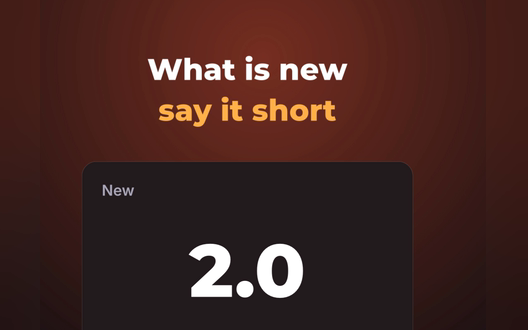
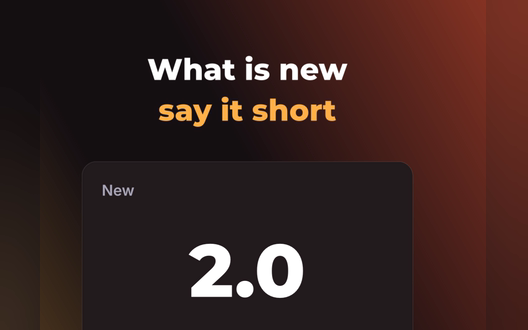
Templates use the project's own background and adapt to the frame's shape
A template's background is no longer a picture baked into the recording: the
recording (a plain still that gives the piece its length) is not drawn
(sfHideRecording), and the template's colours become the project's gradient
background, which fills a frame of any shape and is changed in the Background
panel like any other.

Choosing another shape in the app keeps a template project's titles and cards
arranged as designed, centred in the new frame, and going back restores them
exactly (refit_layers). The vertical platforms' safe area is dropped when the
video is no longer vertical. The template pictures are redrawn.

diff --git a/crates/sf-services/src/templates.rs b/crates/sf-services/src/templates.rs
@@ -1,8 +1,9 @@
-//! Templates: videos made without a recording. A template is a look (a drawn background, a
+//! Templates: videos made without a recording. A template is a look (a gradient background, a
 //! palette, where the headline and the card sit) and a structure (a hook, beats, an end card)
 //! that a person or an agent fills with words, narration and cards. The result is an ordinary
-//! project: the background is its "recording", a still video as long as the piece, so
-//! narration, captions, titles and overlays work as they do over a screen recording.
+//! project: a plain still video as long as the piece is its "recording", which is not shown, so
+//! narration, captions, titles and overlays work as they do over a screen recording, and the
+//! picture behind them is the project's own background.
 //!
 //! A card is not one picture: it is laid out as separate elements ([`Element`]), each shape an
 //! overlay of its own and each piece of text a title, so every one can be selected, moved,
@@ -21,15 +22,6 @@ pub const TEXT: &str = "#ffffff";
 pub const MUTED: &str = "#a9a6b8";
 pub const INK: &str = "#16131c";
 
-/// What is drawn over the background's glows.
-#[derive(Debug, Clone, Copy, PartialEq)]
-pub enum Pattern {
-    None,
-    Grid,
-    Dots,
-    Lines,
-}
-
 /// The small label over each beat's headline.
 #[derive(Debug, Clone, Copy, PartialEq)]
 pub enum Labels {
@@ -44,10 +36,10 @@ pub struct Template {
     pub key: &'static str,
     pub label: &'static str,
     pub about: &'static str,
-    /// The background's fill and its two soft glows: colour, centre (0–1), radius (0–1 of the height).
+    /// The background: a dark fill between two glows (colour, centre 0–1, reach 0–1), made into
+    /// the project's own gradient background.
     pub base: &'static str,
     pub glows: [(&'static str, f64, f64, f64); 2],
-    pub pattern: Pattern,
     /// The second line of a headline, the captions' spoken word and the button.
     pub accent: &'static str,
     /// The card panel's fill.
@@ -64,20 +56,20 @@ pub struct Template {
 /// the safe area of TikTok, Reels and Shorts and in the proportions of the card canvas.
 pub const CARD: [f64; 4] = [0.075, 0.3, 0.78, 0.3306];
 
-const fn template(key: &'static str, label: &'static str, about: &'static str, base: &'static str, glows: [(&'static str, f64, f64, f64); 2], pattern: Pattern, accent: &'static str, panel: &'static str, labels: Labels, card_in: &'static str) -> Template {
-    Template { key, label, about, base, glows, pattern, accent, panel, headline_y: 0.22, headline_size: 0.046, labels, card_in }
+const fn template(key: &'static str, label: &'static str, about: &'static str, base: &'static str, glows: [(&'static str, f64, f64, f64); 2], accent: &'static str, panel: &'static str, labels: Labels, card_in: &'static str) -> Template {
+    Template { key, label, about, base, glows, accent, panel, headline_y: 0.22, headline_size: 0.046, labels, card_in }
 }
 
 pub const TEMPLATES: [Template; 9] = [
-    template("feature-short", "Feature short", "One product feature in about 20 seconds: a two-line hook, three to five beats (a headline over a card), and an end card with the name, a tagline, a button and the web address. Dark plum with warm glows.", "#14131f", [("#ff7a45", 0.22, 0.30, 0.42), ("#d0367f", 0.88, 0.74, 0.46)], Pattern::Grid, "#ff8a4c", "#1d1c2b", Labels::None, "zoom"),
-    template("how-to-steps", "How-to in steps", "A numbered how-to: a hook that names the result, then one beat per step (STEP 1, STEP 2 … over a headline and a card that shows the step), and an end card. Deep blue with cool glows.", "#0d1524", [("#2f6df0", 0.15, 0.22, 0.44), ("#22c7dd", 0.9, 0.8, 0.4)], Pattern::None, "#5cc8ff", "#152238", Labels::Numbered("STEP"), "rise"),
-    template("announcement", "Announcement", "A launch or one piece of news: a big hook, two or three short statements with a card each, and an end card with the web address. Near-black with an amber glow.", "#150f12", [("#ff5a36", 0.5, 0.18, 0.5), ("#ffb347", 0.5, 0.95, 0.42)], Pattern::None, "#ffb14a", "#221a1c", Labels::None, "fade"),
-    template("top-three", "Top three", "A countdown list: a hook that names the list, then number three, two and one, each a headline over a card, and an end card. Charcoal with gold.", "#101418", [("#f59e0b", 0.2, 0.25, 0.4), ("#ef4444", 0.86, 0.8, 0.42)], Pattern::Dots, "#fbbf24", "#1b2027", Labels::Fixed(&["NUMBER 3", "NUMBER 2", "NUMBER 1"]), "zoom"),
-    template("quick-tip", "Quick tip", "One tip in fifteen seconds: the problem, the fix, and what it gives you. Dark green with fresh glows.", "#0c1a17", [("#10b981", 0.2, 0.2, 0.45), ("#84cc16", 0.86, 0.85, 0.4)], Pattern::Lines, "#34d399", "#132621", Labels::Fixed(&["THE PROBLEM", "THE FIX", "THE RESULT"]), "rise"),
-    template("did-you-know", "Did you know", "A surprising fact: the fact as a big figure, why it is so, and what to do with it. Deep violet with pink.", "#170f24", [("#8b5cf6", 0.25, 0.25, 0.45), ("#ec4899", 0.86, 0.8, 0.42)], Pattern::Dots, "#c4b5fd", "#22183a", Labels::None, "zoom"),
-    template("before-after", "Before and after", "A comparison: how it was, how it is now, and the difference in one figure. Graphite, from red to green.", "#121316", [("#ef4444", 0.12, 0.3, 0.4), ("#22c55e", 0.9, 0.7, 0.42)], Pattern::None, "#4ade80", "#1c1e24", Labels::Fixed(&["BEFORE", "AFTER", "THE DIFFERENCE"]), "fade"),
-    template("testimonial", "Testimonial", "What a customer said: their words as a quote, the result they got as a figure, and an end card. Warm brown with orange.", "#17120e", [("#f97316", 0.2, 0.2, 0.4), ("#eab308", 0.86, 0.85, 0.38)], Pattern::None, "#fdba74", "#241c16", Labels::None, "fade"),
-    template("sale", "Sale", "An offer: the price and what it was, what you get, and when it ends, closing on a button. Dark red with coral.", "#1a0b10", [("#f43f5e", 0.5, 0.2, 0.5), ("#fb923c", 0.5, 0.92, 0.4)], Pattern::Lines, "#ff6b81", "#2a1219", Labels::None, "zoom"),
+    template("feature-short", "Feature short", "One product feature in about 20 seconds: a two-line hook, three to five beats (a headline over a card), and an end card with the name, a tagline, a button and the web address. Dark plum with warm glows.", "#14131f", [("#ff7a45", 0.22, 0.30, 0.42), ("#d0367f", 0.88, 0.74, 0.46)], "#ff8a4c", "#1d1c2b", Labels::None, "zoom"),
+    template("how-to-steps", "How-to in steps", "A numbered how-to: a hook that names the result, then one beat per step (STEP 1, STEP 2 … over a headline and a card that shows the step), and an end card. Deep blue with cool glows.", "#0d1524", [("#2f6df0", 0.15, 0.22, 0.44), ("#22c7dd", 0.9, 0.8, 0.4)], "#5cc8ff", "#152238", Labels::Numbered("STEP"), "rise"),
+    template("announcement", "Announcement", "A launch or one piece of news: a big hook, two or three short statements with a card each, and an end card with the web address. Near-black with an amber glow.", "#150f12", [("#ff5a36", 0.5, 0.18, 0.5), ("#ffb347", 0.5, 0.95, 0.42)], "#ffb14a", "#221a1c", Labels::None, "fade"),
+    template("top-three", "Top three", "A countdown list: a hook that names the list, then number three, two and one, each a headline over a card, and an end card. Charcoal with gold.", "#101418", [("#f59e0b", 0.2, 0.25, 0.4), ("#ef4444", 0.86, 0.8, 0.42)], "#fbbf24", "#1b2027", Labels::Fixed(&["NUMBER 3", "NUMBER 2", "NUMBER 1"]), "zoom"),
+    template("quick-tip", "Quick tip", "One tip in fifteen seconds: the problem, the fix, and what it gives you. Dark green with fresh glows.", "#0c1a17", [("#10b981", 0.2, 0.2, 0.45), ("#84cc16", 0.86, 0.85, 0.4)], "#34d399", "#132621", Labels::Fixed(&["THE PROBLEM", "THE FIX", "THE RESULT"]), "rise"),
+    template("did-you-know", "Did you know", "A surprising fact: the fact as a big figure, why it is so, and what to do with it. Deep violet with pink.", "#170f24", [("#8b5cf6", 0.25, 0.25, 0.45), ("#ec4899", 0.86, 0.8, 0.42)], "#c4b5fd", "#22183a", Labels::None, "zoom"),
+    template("before-after", "Before and after", "A comparison: how it was, how it is now, and the difference in one figure. Graphite, from red to green.", "#121316", [("#ef4444", 0.12, 0.3, 0.4), ("#22c55e", 0.9, 0.7, 0.42)], "#4ade80", "#1c1e24", Labels::Fixed(&["BEFORE", "AFTER", "THE DIFFERENCE"]), "fade"),
+    template("testimonial", "Testimonial", "What a customer said: their words as a quote, the result they got as a figure, and an end card. Warm brown with orange.", "#17120e", [("#f97316", 0.2, 0.2, 0.4), ("#eab308", 0.86, 0.85, 0.38)], "#fdba74", "#241c16", Labels::None, "fade"),
+    template("sale", "Sale", "An offer: the price and what it was, what you get, and when it ends, closing on a button. Dark red with coral.", "#1a0b10", [("#f43f5e", 0.5, 0.2, 0.5), ("#fb923c", 0.5, 0.92, 0.4)], "#ff6b81", "#2a1219", Labels::None, "zoom"),
 ];
 
 pub fn find(key: &str) -> Option<&'static Template> {
@@ -104,55 +96,30 @@ fn words(text: &str, x: f64, y: f64, size: f64, align: &'static str, color: &str
 }
 
 impl Template {
-    /// The background, drawn for the whole frame.
-    pub fn background_svg(&self) -> String {
-        let mut s = format!(r#"<svg xmlns="http://www.w3.org/2000/svg" viewBox="0 0 {WIDTH} {HEIGHT}"><defs>"#);
-        for (i, (color, _, _, _)) in self.glows.iter().enumerate() {
-            s += &format!(r#"<radialGradient id="g{i}"><stop offset="0" stop-color="{color}" stop-opacity="0.42"/><stop offset="1" stop-color="{color}" stop-opacity="0"/></radialGradient>"#);
-        }
-        s += &format!(r#"</defs><rect width="{WIDTH}" height="{HEIGHT}" fill="{}"/>"#, self.base);
-        for (i, (_, x, y, r)) in self.glows.iter().enumerate() {
-            s += &format!(r#"<circle cx="{}" cy="{}" r="{}" fill="url(#g{i})"/>"#, x * WIDTH, y * HEIGHT, r * HEIGHT);
-        }
-        let mut d = String::new();
-        match self.pattern {
-            Pattern::None => {}
-            Pattern::Grid => {
-                let mut x = 90.0;
-                while x < WIDTH {
-                    d += &format!("M{x} 0V{HEIGHT}");
-                    x += 90.0;
-                }
-                let mut y = 90.0;
-                while y < HEIGHT {
-                    d += &format!("M0 {y}H{WIDTH}");
-                    y += 90.0;
-                }
-            }
-            Pattern::Lines => {
-                // diagonals, bottom-left to top-right
-                let mut c = -HEIGHT;
-                while c < WIDTH {
-                    d += &format!("M{c} {HEIGHT}L{} 0", c + HEIGHT);
-                    c += 120.0;
-                }
-            }
-            Pattern::Dots => {
-                let mut y = 60.0;
-                while y < HEIGHT {
-                    let mut x = 60.0;
-                    while x < WIDTH {
-                        s += &format!(r##"<circle cx="{x}" cy="{y}" r="3" fill="#ffffff" fill-opacity="0.07"/>"##);
-                        x += 120.0;
-                    }
-                    y += 120.0;
-                }
-            }
-        }
-        if !d.is_empty() {
-            s += &format!(r##"<path d="{d}" stroke="#ffffff" stroke-opacity="0.045" stroke-width="2" fill="none"/>"##);
-        }
-        s + "</svg>"
+    /// The template's background as a project gradient (`/config/styles/background/gradient`):
+    /// the first glow's colour in the corner it sits in, the dark fill through the middle, the
+    /// second glow's colour in its corner. Being the project's own background, it fills a frame
+    /// of any shape and is changed in the Background panel like any other.
+    pub fn gradient(&self) -> Value {
+        let ((c0, x0, y0, _), (c1, x1, y1, _)) = (self.glows[0], self.glows[1]);
+        let (sx, sy) = (x0.round(), y0.round());
+        // the far corner from the first glow when the second sits on the same side
+        let (ex, ey) = (if (x1.round() - sx).abs() < 0.5 { 1.0 - sx } else { x1.round() }, if (y1.round() - sy).abs() < 0.5 { 1.0 - sy } else { y1.round() });
+        json!({
+            "start": { "x": sx, "y": sy },
+            "end": { "x": ex, "y": ey },
+            "stops": [
+                { "color": mix(self.base, c0, 0.55), "at": 0.0 },
+                { "color": self.base, "at": 0.42 },
+                { "color": self.base, "at": 0.6 },
+                { "color": mix(self.base, c1, 0.5), "at": 1.0 },
+            ],
+        })
+    }
+
+    /// The still picture the project's (hidden) recording is made of: the plain fill.
+    pub fn backdrop_svg(&self) -> String {
+        format!(r#"<svg xmlns="http://www.w3.org/2000/svg" viewBox="0 0 {WIDTH} {HEIGHT}"><rect width="{WIDTH}" height="{HEIGHT}" fill="{}"/></svg>"#, self.base)
     }
 
     /// The label over beat `index`'s headline (0-based), when the template has one.
@@ -299,6 +266,17 @@ For an illustration none of these fits, give SVG markup instead: <svg xmlns=\"ht
     )
 }
 
+/// `a` with `amount` (0–1) of `b` mixed in, both `#rrggbb`.
+pub fn mix(a: &str, b: &str, amount: f64) -> String {
+    let rgb = |h: &str| {
+        let v = u32::from_str_radix(h.trim_start_matches('#'), 16).unwrap_or(0);
+        [(v >> 16) & 255, (v >> 8) & 255, v & 255]
+    };
+    let (a, b) = (rgb(a), rgb(b));
+    let c: Vec<u32> = (0..3).map(|i| (a[i] as f64 + (b[i] as f64 - a[i] as f64) * amount.clamp(0.0, 1.0)).round() as u32).collect();
+    format!("#{:02x}{:02x}{:02x}", c[0], c[1], c[2])
+}
+
 pub fn escape(s: &str) -> String {
     s.replace('&', "&amp;").replace('<', "&lt;").replace('>', "&gt;").replace('"', "&quot;")
 }
@@ -325,9 +303,13 @@ mod tests {
         assert!(x * WIDTH >= 60.0 && (x + cw) * WIDTH <= 940.0 && y * HEIGHT >= 220.0 && (y + ch) * HEIGHT <= 1440.0);
         assert!(((cw * WIDTH / (ch * HEIGHT)) / (CARD_W / CARD_H) - 1.0).abs() < 0.01);
         for t in &TEMPLATES {
-            let (png, w, h) = crate::svg::render(&t.background_svg(), 1920).unwrap_or_else(|e| panic!("{}: {e}", t.key));
+            let (_, w, h) = crate::svg::render(&t.backdrop_svg(), 1920).unwrap_or_else(|e| panic!("{}: {e}", t.key));
             assert_eq!((w, h), (1080, 1920), "{}", t.key);
-            assert!(png.len() > 1000);
+            // the background is a gradient the project can hold: two corners apart, four stops
+            let g = t.gradient();
+            assert!(g["start"] != g["end"], "{}", t.key);
+            assert_eq!(g["stops"].as_array().map(Vec::len), Some(4));
+            assert!(g["stops"][0]["color"].as_str().is_some_and(|c| c.len() == 7 && c != t.base));
             assert!(find(&t.key.to_uppercase()).is_some());
             // the stand-in project: every card is shapes that draw and words inside the canvas
             let sample = t.sample();
@@ -354,6 +336,7 @@ mod tests {
         assert_eq!(TEMPLATES[3].beat_label(5), None);
         assert!(TEMPLATES[0].card_elements(&json!({ "type": "pie" })).is_err());
         assert!(TEMPLATES[0].card_elements(&json!({ "type": "list" })).is_err());
+        assert_eq!(mix("#000000", "#ffffff", 0.5), "#808080");
         assert_eq!(file_stem("  My: demo/video?  "), "My demo video");
         assert_eq!(escape("a<b & \"c\""), "a&lt;b &amp; &quot;c&quot;");
     }

diff --git a/crates/sf-engine/src/tracks.rs b/crates/sf-engine/src/tracks.rs
@@ -169,6 +169,35 @@ pub fn shift_output_items(scene: &mut Scene, at: f64, delta: f64) {
     scene.set_tracks(tracks);
 }
 
+/// Keep titles and overlays arranged as they were designed when the video's shape changes
+/// from `old` to `new` (width / height). The arrangement was made for a frame of shape
+/// `design`; it is shown whole and centred in any other frame, as large as fits (a vertical
+/// design in a wide frame keeps its size and sits in the middle), so going back to the design's
+/// shape puts everything exactly where it was.
+pub fn refit_layers(scene: &mut Scene, design: f64, old: f64, new: f64) {
+    if !(design > 0.0 && old > 0.0 && new > 0.0) || (old - new).abs() < 1e-9 {
+        return;
+    }
+    // how large the design is drawn in a frame of shape `a`, as a fraction of its height
+    let scale = |a: f64| (a / design).min(1.0);
+    let (s0, s1) = (scale(old), scale(new));
+    // x and y of a point: back to the design's frame, then into the new one
+    let x = |v: f64| 0.5 + (v - 0.5) * (old / (s0 * design)) * (s1 * design / new);
+    let y = |v: f64| 0.5 + (v - 0.5) / s0 * s1;
+    let (kw, kh) = ((old / (s0 * design)) * (s1 * design / new), s1 / s0);
+    let mut tracks = scene.tracks();
+    for c in tracks.iter_mut().flat_map(|t| t.clips.iter_mut()) {
+        if let Some(t) = c.text.as_mut() {
+            t.position01 = sf_project::schema::common::Point::new(x(t.position01.x), y(t.position01.y));
+            t.size_ratio *= kh;
+        }
+        if let Some(r) = c.rect01.as_mut() {
+            *r = sf_project::schema::common::Rect { x: x(r.x), y: y(r.y), width: r.width * kw, height: r.height * kh };
+        }
+    }
+    scene.set_tracks(tracks);
+}
+
 /// Insert a title card `duration_ms` long before slice `index` (at the end when past it).
 /// Returns its output start.
 pub fn insert_card(scene: &mut Scene, index: usize, duration_ms: f64) -> f64 {
@@ -242,6 +271,47 @@ pub fn add_title_card(scene: &mut Scene, index: usize, text: &str, duration_ms: 
 #[cfg(test)]
 mod tests {
     use super::*;
+
+    #[test]
+    fn layers_keep_their_arrangement_across_frame_shapes_and_come_back() {
+        let mut scene = Scene::recording("s", 0);
+        let mut tracks = vec![];
+        let mut title = Clip::title(0.0, 2000.0, "Headline");
+        title.text.as_mut().unwrap().position01 = sf_project::schema::common::Point::new(0.465, 0.22);
+        title.text.as_mut().unwrap().size_ratio = 0.046;
+        let mut card = Clip::title(0.0, 2000.0, "x");
+        card.text = None;
+        card.rect01 = Some(sf_project::schema::common::Rect { x: 0.075, y: 0.3, width: 0.78, height: 0.33 });
+        tr::add_clip(&mut tracks, title);
+        tr::add_clip(&mut tracks, card);
+        scene.set_tracks(tracks);
+        let read = |s: &Scene| {
+            let t = s.tracks();
+            let all: Vec<&Clip> = t.iter().flat_map(|t| &t.clips).collect();
+            let text = all.iter().find_map(|c| c.text.as_ref()).unwrap().clone();
+            (text.position01.x, text.position01.y, text.size_ratio, all.iter().find_map(|c| c.rect01).unwrap())
+        };
+        let before = read(&scene);
+        let (v, w) = (9.0 / 16.0, 16.0 / 9.0);
+        // vertical to wide: the same height, a narrower share of the width, still centred
+        refit_layers(&mut scene, v, v, w);
+        let wide = read(&scene);
+        assert!((wide.1 - before.1).abs() < 1e-9 && (wide.2 - before.2).abs() < 1e-9);
+        assert!((wide.3.height - before.3.height).abs() < 1e-9 && (wide.3.width - before.3.width * v / w).abs() < 1e-9);
+        // the card keeps its shape in pixels: width / height times the frame's shape
+        assert!(((wide.3.width / wide.3.height * w) - (before.3.width / before.3.height * v)).abs() < 1e-9);
+        assert!(wide.3.x > 0.3 && wide.3.x + wide.3.width < 0.7);
+        // wide to square, then back to vertical: where it started
+        refit_layers(&mut scene, v, w, 1.0);
+        refit_layers(&mut scene, v, 1.0, v);
+        let back = read(&scene);
+        assert!((back.0 - before.0).abs() < 1e-9 && (back.1 - before.1).abs() < 1e-9 && (back.2 - before.2).abs() < 1e-9);
+        assert!((back.3.x - before.3.x).abs() < 1e-9 && (back.3.width - before.3.width).abs() < 1e-9 && (back.3.y - before.3.y).abs() < 1e-9);
+        // a frame narrower than the design: the design is made smaller to fit its width
+        refit_layers(&mut scene, v, v, 0.4);
+        let narrow = read(&scene);
+        assert!(narrow.2 < before.2 && (narrow.3.width - before.3.width).abs() < 1e-9);
+    }
     use sf_project::tracks::{ClipAnim, Link};
 
     fn tl(slices: &[Slice]) -> Timeline {

diff --git a/apps/sf-cli/src/mcp.rs b/apps/sf-cli/src/mcp.rs
@@ -380,7 +380,7 @@ impl Server {
         let tmp = std::env::temp_dir().join(format!("sf-template-{}-{}", std::process::id(), chrono::Local::now().format("%H%M%S%3f")));
         std::fs::create_dir_all(&tmp)?;
         let made = (|| -> Result<PathBuf> {
-            let (png, _, _) = sf_services::svg::render(&t.background_svg(), HEIGHT as u32).map_err(|e| anyhow!(e))?;
+            let (png, _, _) = sf_services::svg::render(&t.backdrop_svg(), HEIGHT as u32).map_err(|e| anyhow!(e))?;
             let still = tmp.join("background.png");
             std::fs::write(&still, png)?;
             let video = tmp.join(format!("{name}.mp4"));
@@ -403,15 +403,19 @@ impl Server {
                 let o = ws.run(name, &a).map_err(|e| anyhow!("{name}: {e}"))?;
                 Ok(serde_json::from_str(&o.result).unwrap_or(Value::Null))
             };
-            // the background fills the frame: no padding, corners, shadow, cursor or phone frame
+            // the recording is not shown (it only gives the piece its length): the picture is the
+            // project's own background, the template's gradient, which fills a frame of any shape
             run("patch_project", json!({ "ops": [
                 { "op": "add", "path": "/name", "value": name },
+                { "op": "add", "path": "/config/output/sfHideRecording", "value": true },
+                { "op": "add", "path": "/config/output/sfTemplate", "value": t.key },
                 { "op": "add", "path": "/config/output/paddingRatio01", "value": 0 },
                 { "op": "add", "path": "/config/styles/screenBorderRadius", "value": 0 },
                 { "op": "add", "path": "/config/styles/shadow/intensity", "value": 0 },
                 { "op": "add", "path": "/config/cursor/hide", "value": true },
                 { "op": "add", "path": "/config/device/enableMockup", "value": false },
-                { "op": "add", "path": "/config/styles/background/type", "value": "color" },
+                { "op": "add", "path": "/config/styles/background/type", "value": "gradient" },
+                { "op": "add", "path": "/config/styles/background/gradient", "value": t.gradient() },
                 { "op": "add", "path": "/config/styles/background/color", "value": t.base },
                 { "op": "add", "path": "/config/captions/font", "value": "heavy" },
                 { "op": "add", "path": "/config/captions/sfStyle", "value": "highlight" },

diff --git a/apps/studio/src/editor.rs b/apps/studio/src/editor.rs
@@ -1887,7 +1887,21 @@ impl Editor {
                 for (label, preset) in sf_project::schema::common::AspectRatio::PRESETS {
                     let value = preset.map(|(w, h)| sf_project::schema::common::AspectRatio::ratio(w, h)).unwrap_or(sf_project::schema::common::AspectRatio::AUTO);
                     if crate::widgets::menu_item(ui, aspect == value, *label).clicked() {
-                        self.edit(move |p| p.config.output.aspect_ratio = value);
+                        self.edit(move |p| {
+                            // a project made from a template was arranged for a vertical frame:
+                            // its titles and cards keep that arrangement, centred, in any shape
+                            let vertical = 9.0 / 16.0;
+                            let shape = |a: &sf_project::schema::common::AspectRatio| a.as_f64().unwrap_or(vertical);
+                            let (old, new) = (shape(&p.config.output.aspect_ratio), shape(&value));
+                            if p.config.output.extra.contains_key("sfTemplate") {
+                                sf_engine::tracks::refit_layers(&mut p.scenes[0], vertical, old, new);
+                            }
+                            // TikTok's, Reels' and Shorts' safe area is for a vertical video only
+                            if (new - vertical).abs() > 0.01 {
+                                p.config.output.extra.remove("sfFormat");
+                            }
+                            p.config.output.aspect_ratio = value;
+                        });
                         ui.close();
                     }
                 }

diff --git a/crates/sf-session/src/lib.rs b/crates/sf-session/src/lib.rs
@@ -437,7 +437,10 @@ impl Session {
         let layout = self.layout_at(source_ms);
         let camera_wanted = self.camera_stream.is_some() && !cfg.camera.hide && layout.is_camera_visible();
         let frame = layout::layout_frame(&layout, &view.geometry, cfg.camera.aspect_ratio);
-        let screen_visible = frame.screen_visible || !camera_wanted;
+        // a project made from a template has no recording to show: its still video only gives
+        // the piece its length, and the project's own background is the picture
+        let hidden = cfg.output.extra.get("sfHideRecording").and_then(|v| v.as_bool()).unwrap_or(false);
+        let screen_visible = (frame.screen_visible || !camera_wanted) && !hidden;
 
         self.seek_sources(source_ms, camera_wanted)?;
 

diff --git a/docs/AGENTS.md b/docs/AGENTS.md
@@ -75,6 +75,9 @@ The Windows build does not ship the tool yet.
   checklist, a figure, a quote, a comparison, a price, a mock window) is laid out as separate
   elements, each shape an overlay and each piece of text a title, so every one can be
   selected, moved, retyped or deleted in the app; a card given as SVG is one image.
+  The picture behind is the project's own background (the template's gradient), so it fills a
+  frame of any shape and is changed in the Background panel; in the app, choosing another
+  shape (wide, square) keeps the titles and cards arranged as they were, centred.
   The elements of a card share a group: in the editor, dragging one moves the whole card (on
   the preview and on the timeline) until you choose *Ungroup*; *Group again* puts them back.
   `new_from_template` makes the video from what the agent writes: a hook, up to eight beats
